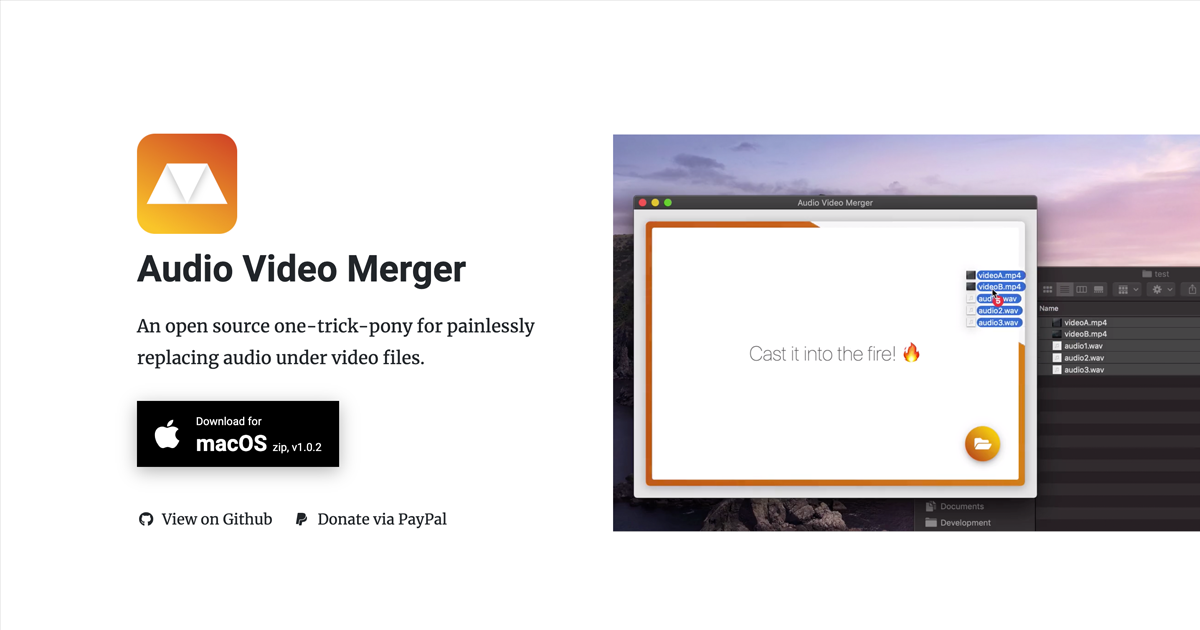
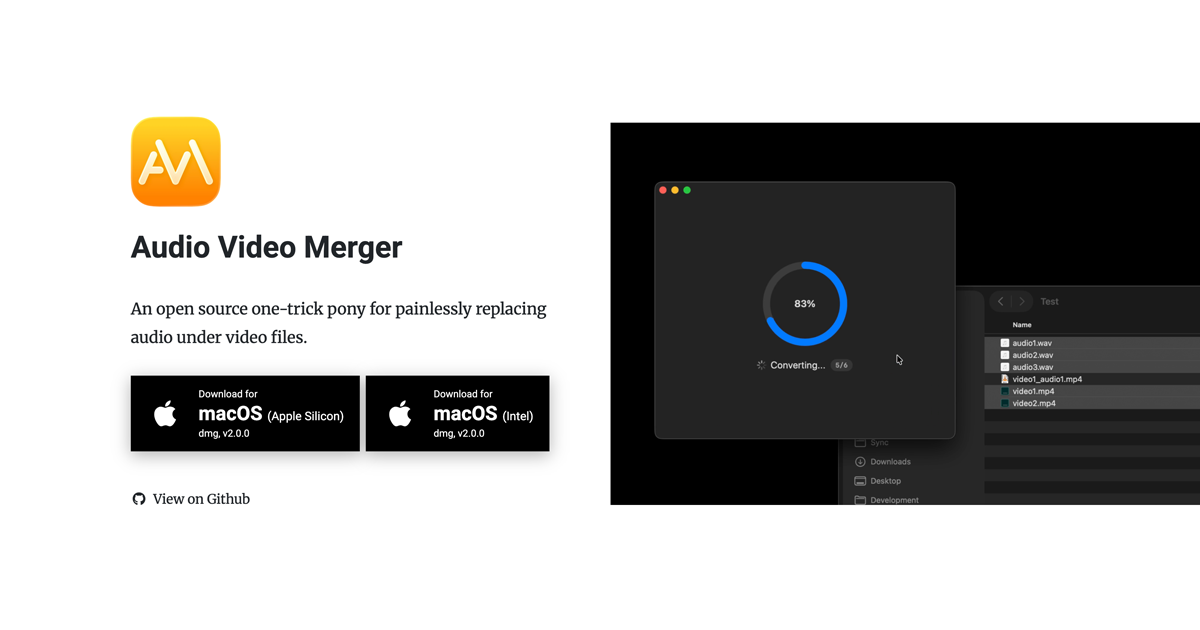
Update from kapoko/audio-video-merger@81012752067e5143efec6251636f5cd910b90496

diff --git a/index.html b/index.html
@@ -1,4 +1,4 @@
-<!doctype html><html lang=en-us><head><meta name=generator content="Hugo 0.161.1"><meta charset=utf-8><meta http-equiv=X-UA-Compatible content="IE=edge,chrome=1"><meta name=viewport content="width=device-width,initial-scale=1"><base href=https://audiovideomerger.github.io/><title>Audio Video Merger | Audio Video Merger is a one-trick-pony for painlessly replacing audio under video files.</title><link rel=icon type=image/png href=/favicons/favicon-96x96.png sizes=96x96><link rel=icon type=image/svg+xml href=/favicons/favicon.svg><link rel="shortcut icon" href=/favicons/favicon.ico><link rel=apple-touch-icon sizes=180x180 href=/favicons/apple-touch-icon.png><meta name=apple-mobile-web-app-title content="Audio Video Merger"><link rel=manifest href=/favicons/site.webmanifest><meta name=description content="Audio Video Merger is a one-trick-pony for painlessly replacing audio under video files."><meta name=author content="Kasper Koman"><meta name=keywords content="audio,video,merger,tool,macos,electron,ffmpeg,open-source"><meta property="og:title" content="Audio Video Merger"><meta property="og:image" content="https://audiovideomerger.github.io/facebook_og.png"><meta property="og:description" content="Audio Video Merger is a one-trick-pony for painlessly replacing audio under video files."><meta property="og:image:width" content="1200"><meta property="og:image:height" content="630"><meta property="og:image:type" content="image/png"><meta property="og:url" content="https://audiovideomerger.github.io/"><meta property="og:type" content="website"><script async src="https://www.googletagmanager.com/gtag/js?id=G-H4CQN4GGXB"></script><script>window.dataLayer=window.dataLayer||[];function gtag(){dataLayer.push(arguments)}gtag("js",new Date),gtag("config","G-H4CQN4GGXB")</script><link rel=stylesheet href=/css/main.min.55da4d9216c8a1af5adeabd93d34fca4afe8b6711490f2abc63dc27850ae385f.css></head><body><header class=container><header class=columns></header></header><main class=container><div class="hero row"><div class="col-12 col-lg-6 text-center text-lg-start pe-lg-5"><picture><source srcset=/logo.webp type=image/webp><img class=my-lg-0 src=/logo.png width=120 height=120 alt=Logo></picture><h1 class=mt-2>Audio Video Merger</h1><p class="my-3 my-md-4">An open source one-trick pony for painlessly replacing audio under video files.</p><div class="download-buttons d-flex flex-row justify-content-center justify-content-lg-start flex-wrap gap-2"><a href=https://github.com/kapoko/audio-video-merger/releases/download/v2.0.0/AudioVideoMerger-darwin-arm64-2.0.0.dmg target=_blank rel=noopener class="download-button mt-2"><i class="fab fa-apple"></i>
+<!doctype html><html lang=en-us><head><meta name=generator content="Hugo 0.161.1"><meta charset=utf-8><meta http-equiv=X-UA-Compatible content="IE=edge,chrome=1"><meta name=viewport content="width=device-width,initial-scale=1"><base href=https://audiovideomerger.github.io/><title>Audio Video Merger | Audio Video Merger is a one-trick-pony for painlessly replacing audio under video files.</title><link rel=icon type=image/png href=/favicons/favicon-96x96.png sizes=96x96><link rel=icon type=image/svg+xml href=/favicons/favicon.svg><link rel="shortcut icon" href=/favicons/favicon.ico><link rel=apple-touch-icon sizes=180x180 href=/favicons/apple-touch-icon.png><meta name=apple-mobile-web-app-title content="Audio Video Merger"><link rel=manifest href=/favicons/site.webmanifest><meta name=description content="Audio Video Merger is a one-trick-pony for painlessly replacing audio under video files."><meta name=author content="Kasper Koman"><meta name=keywords content="audio,video,merger,tool,macos,swift,ffmpeg,open-source"><meta property="og:title" content="Audio Video Merger"><meta property="og:image" content="https://audiovideomerger.github.io/facebook_og.png"><meta property="og:description" content="Audio Video Merger is a one-trick-pony for painlessly replacing audio under video files."><meta property="og:image:width" content="1200"><meta property="og:image:height" content="630"><meta property="og:image:type" content="image/png"><meta property="og:url" content="https://audiovideomerger.github.io/"><meta property="og:type" content="website"><script async src="https://www.googletagmanager.com/gtag/js?id=G-H4CQN4GGXB"></script><script>window.dataLayer=window.dataLayer||[];function gtag(){dataLayer.push(arguments)}gtag("js",new Date),gtag("config","G-H4CQN4GGXB")</script><link rel=stylesheet href=/css/main.min.55da4d9216c8a1af5adeabd93d34fca4afe8b6711490f2abc63dc27850ae385f.css></head><body><header class=container><header class=columns></header></header><main class=container><div class="hero row"><div class="col-12 col-lg-6 text-center text-lg-start pe-lg-5"><picture><source srcset=/logo.webp type=image/webp><img class=my-lg-0 src=/logo.png width=120 height=120 alt=Logo></picture><h1 class=mt-2>Audio Video Merger</h1><p class="my-3 my-md-4">An open source one-trick pony for painlessly replacing audio under video files.</p><div class="download-buttons d-flex flex-row justify-content-center justify-content-lg-start flex-wrap gap-2"><a href=https://github.com/kapoko/audio-video-merger/releases/download/v2.0.0/AudioVideoMerger-darwin-arm64-2.0.0.dmg target=_blank rel=noopener class="download-button mt-2"><i class="fab fa-apple"></i>
 <span><span><small>Download for</small>
 </span><span>macOS <span class=arch>(Apple Silicon)</span>
 </span><span class=version><small>dmg, v2.0.0</small>

diff --git a/404.html b/404.html
@@ -1,1 +1,1 @@
-<!doctype html><html lang=en-us><head><meta charset=utf-8><meta http-equiv=X-UA-Compatible content="IE=edge,chrome=1"><meta name=viewport content="width=device-width,initial-scale=1"><base href=https://audiovideomerger.github.io/><title>Audio Video Merger | Audio Video Merger is a one-trick-pony for painlessly replacing audio under video files.</title><link rel=icon type=image/png href=/favicons/favicon-96x96.png sizes=96x96><link rel=icon type=image/svg+xml href=/favicons/favicon.svg><link rel="shortcut icon" href=/favicons/favicon.ico><link rel=apple-touch-icon sizes=180x180 href=/favicons/apple-touch-icon.png><meta name=apple-mobile-web-app-title content="Audio Video Merger"><link rel=manifest href=/favicons/site.webmanifest><meta name=description content="Audio Video Merger is a one-trick-pony for painlessly replacing audio under video files."><meta name=author content="Kasper Koman"><meta name=keywords content="audio,video,merger,tool,macos,electron,ffmpeg,open-source"><meta property="og:title" content="Audio Video Merger"><meta property="og:image" content="https://audiovideomerger.github.io/facebook_og.png"><meta property="og:description" content="Audio Video Merger is a one-trick-pony for painlessly replacing audio under video files."><meta property="og:image:width" content="1200"><meta property="og:image:height" content="630"><meta property="og:image:type" content="image/png"><meta property="og:url" content="https://audiovideomerger.github.io/"><meta property="og:type" content="website"><script async src="https://www.googletagmanager.com/gtag/js?id=G-H4CQN4GGXB"></script><script>window.dataLayer=window.dataLayer||[];function gtag(){dataLayer.push(arguments)}gtag("js",new Date),gtag("config","G-H4CQN4GGXB")</script><link rel=stylesheet href=/css/main.min.55da4d9216c8a1af5adeabd93d34fca4afe8b6711490f2abc63dc27850ae385f.css></head><body><header class=container><header class=columns></header></header><main class=container><div class=not-found><p>Oh oh... Unable to find page</p></div></main><footer></footer><script type=text/javascript src=/main.1669d7df4a038a9a4ce57238e6627efd5df3637c18ddad4590bd8f5addfb4793.js></script></body></html>
+<!doctype html><html lang=en-us><head><meta charset=utf-8><meta http-equiv=X-UA-Compatible content="IE=edge,chrome=1"><meta name=viewport content="width=device-width,initial-scale=1"><base href=https://audiovideomerger.github.io/><title>Audio Video Merger | Audio Video Merger is a one-trick-pony for painlessly replacing audio under video files.</title><link rel=icon type=image/png href=/favicons/favicon-96x96.png sizes=96x96><link rel=icon type=image/svg+xml href=/favicons/favicon.svg><link rel="shortcut icon" href=/favicons/favicon.ico><link rel=apple-touch-icon sizes=180x180 href=/favicons/apple-touch-icon.png><meta name=apple-mobile-web-app-title content="Audio Video Merger"><link rel=manifest href=/favicons/site.webmanifest><meta name=description content="Audio Video Merger is a one-trick-pony for painlessly replacing audio under video files."><meta name=author content="Kasper Koman"><meta name=keywords content="audio,video,merger,tool,macos,swift,ffmpeg,open-source"><meta property="og:title" content="Audio Video Merger"><meta property="og:image" content="https://audiovideomerger.github.io/facebook_og.png"><meta property="og:description" content="Audio Video Merger is a one-trick-pony for painlessly replacing audio under video files."><meta property="og:image:width" content="1200"><meta property="og:image:height" content="630"><meta property="og:image:type" content="image/png"><meta property="og:url" content="https://audiovideomerger.github.io/"><meta property="og:type" content="website"><script async src="https://www.googletagmanager.com/gtag/js?id=G-H4CQN4GGXB"></script><script>window.dataLayer=window.dataLayer||[];function gtag(){dataLayer.push(arguments)}gtag("js",new Date),gtag("config","G-H4CQN4GGXB")</script><link rel=stylesheet href=/css/main.min.55da4d9216c8a1af5adeabd93d34fca4afe8b6711490f2abc63dc27850ae385f.css></head><body><header class=container><header class=columns></header></header><main class=container><div class=not-found><p>Oh oh... Unable to find page</p></div></main><footer></footer><script type=text/javascript src=/main.1669d7df4a038a9a4ce57238e6627efd5df3637c18ddad4590bd8f5addfb4793.js></script></body></html>
